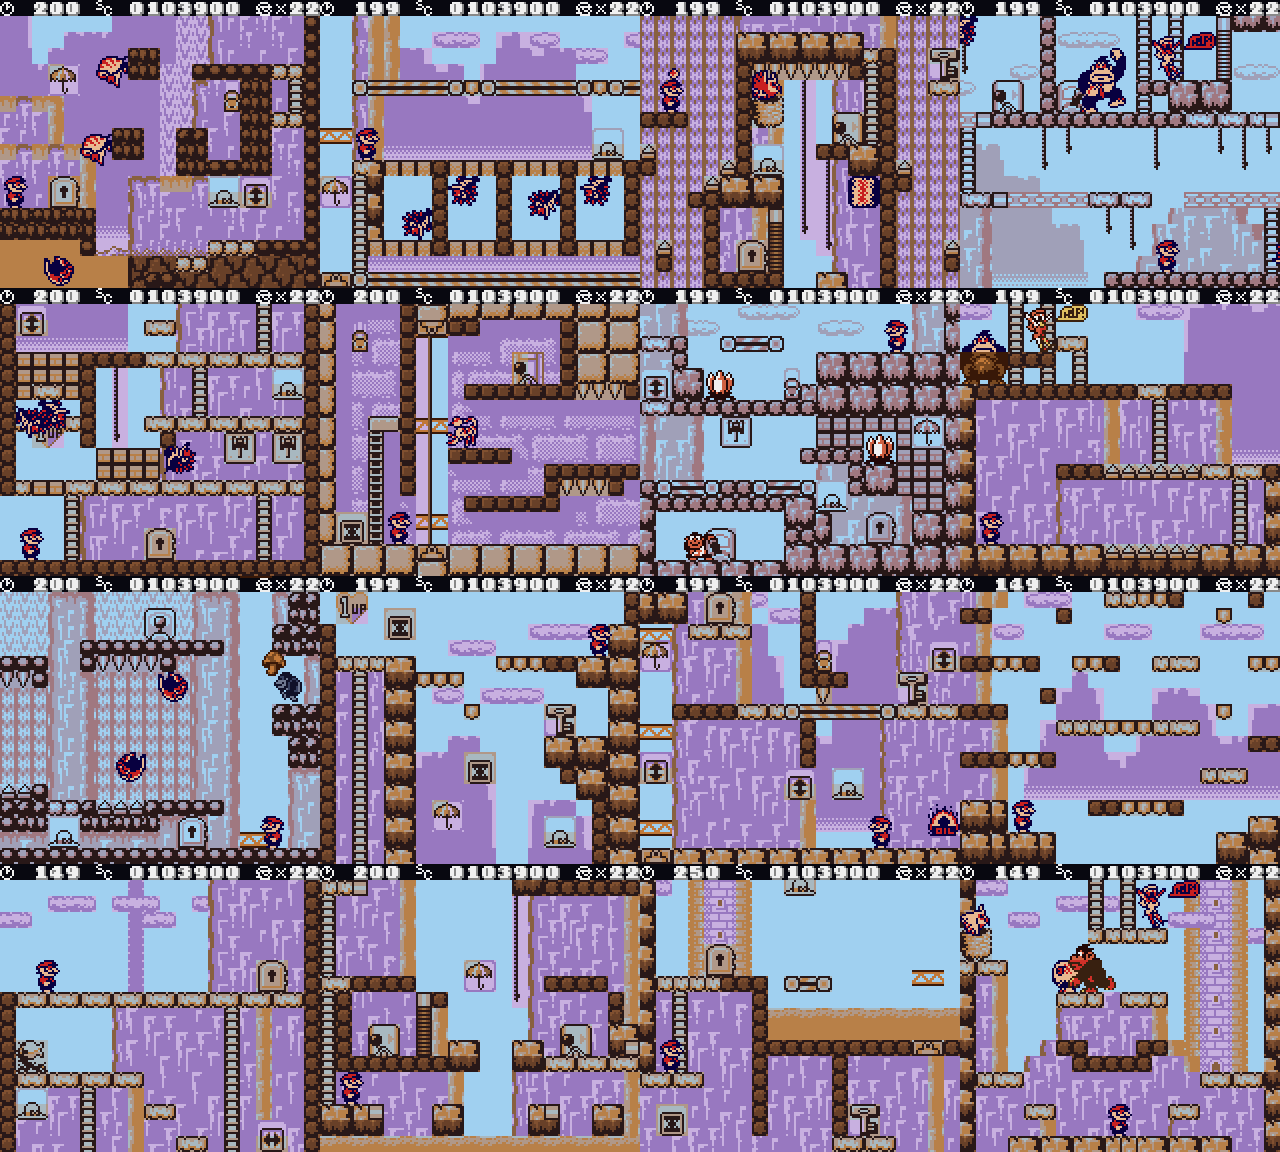
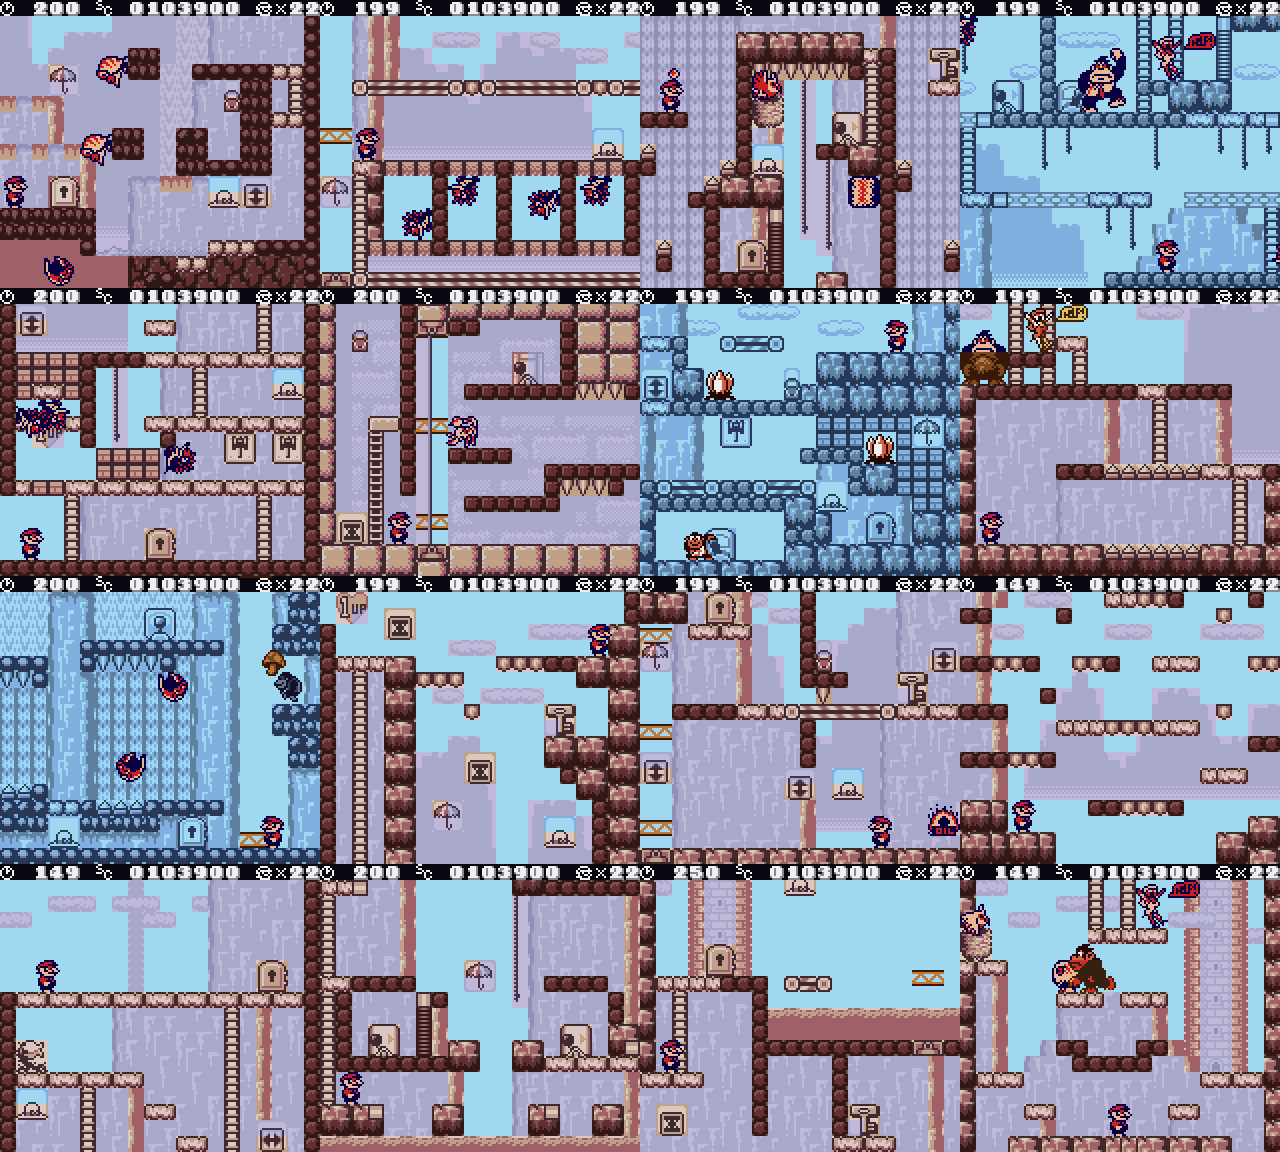
Rocky-Valley: colours drawn from the Big-City palettes; refresh screenshot

diff --git a/donkey-kong/tools/themes.py b/donkey-kong/tools/themes.py
@@ -20,8 +20,12 @@ for w,(name,sky,dec,st,dn,ink) in W.items():
     p2=[mix(sky,st,.3),mix(sky,st,.65),st,ink]
     p3=[mix(st,dn,.3),mix(st,dn,.7),dn,ink]
     bg=[p0,p1,p2,p3,p1,p2,p3,ov['bg'][7]]
-    if w==8:  # purple cliffs (light shades) that turn brown where the tile is dense (boulders)
-        p1=[(204,178,232),(158,120,196),(142,96,68),ink]; bg=[p0,p1,p2,p3,p1,p2,p3,ov['bg'][7]]
+    if w==8:   # colours drawn from the Big-City 1-1 palettes: sky blue, lilac, tan, brown-red girders
+        q0=[(164,219,249),(130,185,230),(99,130,164),(39,59,92)]
+        q1=[(195,193,225),(172,170,208),(152,150,193),(77,48,64)]
+        q2=[(225,204,194),(196,164,140),(168,102,103),(62,42,52)]
+        q3=[(157,117,115),(128,84,80),(102,52,50),(48,24,26)]
+        bg=[q0,q1,q2,q3,q1,q2,q3,ov['bg'][7]]
     if w==1: bg=ov['bg']       # Big-City: exactly the 1-1 / 1-2 palettes
     out.append({'world':w,'name':name,'bg':[[list(map(float,c)) for c in p] for p in bg],'obj':ov['obj']})
 json.dump({'themes':out,'cls':ov['cls']},open('out/themes.json','w')); print('saved out/themes.json')

diff --git a/donkey-kong/README.md b/donkey-kong/README.md
@@ -19,7 +19,7 @@ plain DMG or a real SGB the game's original code path still runs.
 * Apply to **your own** copy of the original ROM
   (SHA-1 `6ed661bd1d6d8cdd48e1c10f8ca4e8dcba49128e`, 512 KB, *Donkey Kong (Japan, USA) (En) (SGB Enhanced)*).
 * `python3 apply_patch.py original.gb dk-color.ips dk-color.gb` (or any IPS patcher, e.g. Flips).
-  The patched ROM has SHA-1 `6b509677e9d49d4fd60bcbadb0edbccc911c81a3`.
+  The patched ROM has SHA-1 `1a7bca4f6c9bd9b4bdb8a3c2152f86f29c5a3313`.
 * Run it in a CGB-capable emulator (SameBoy, mGBA, BGB, Gambatte) or on a Game Boy Color.
 * **No ROM is included in this repository.** Only the patch (my own code and colour data) and the build sources.
 
